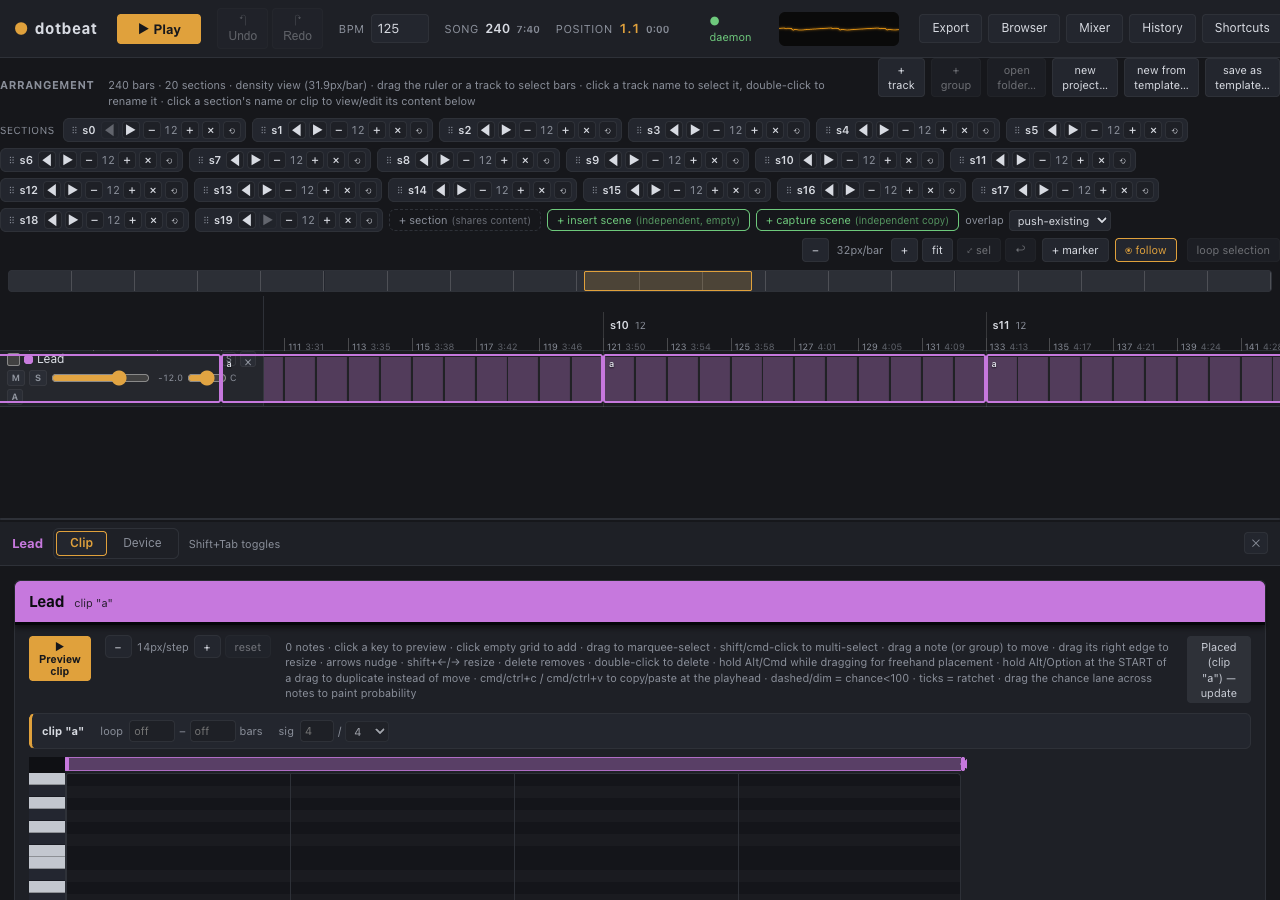
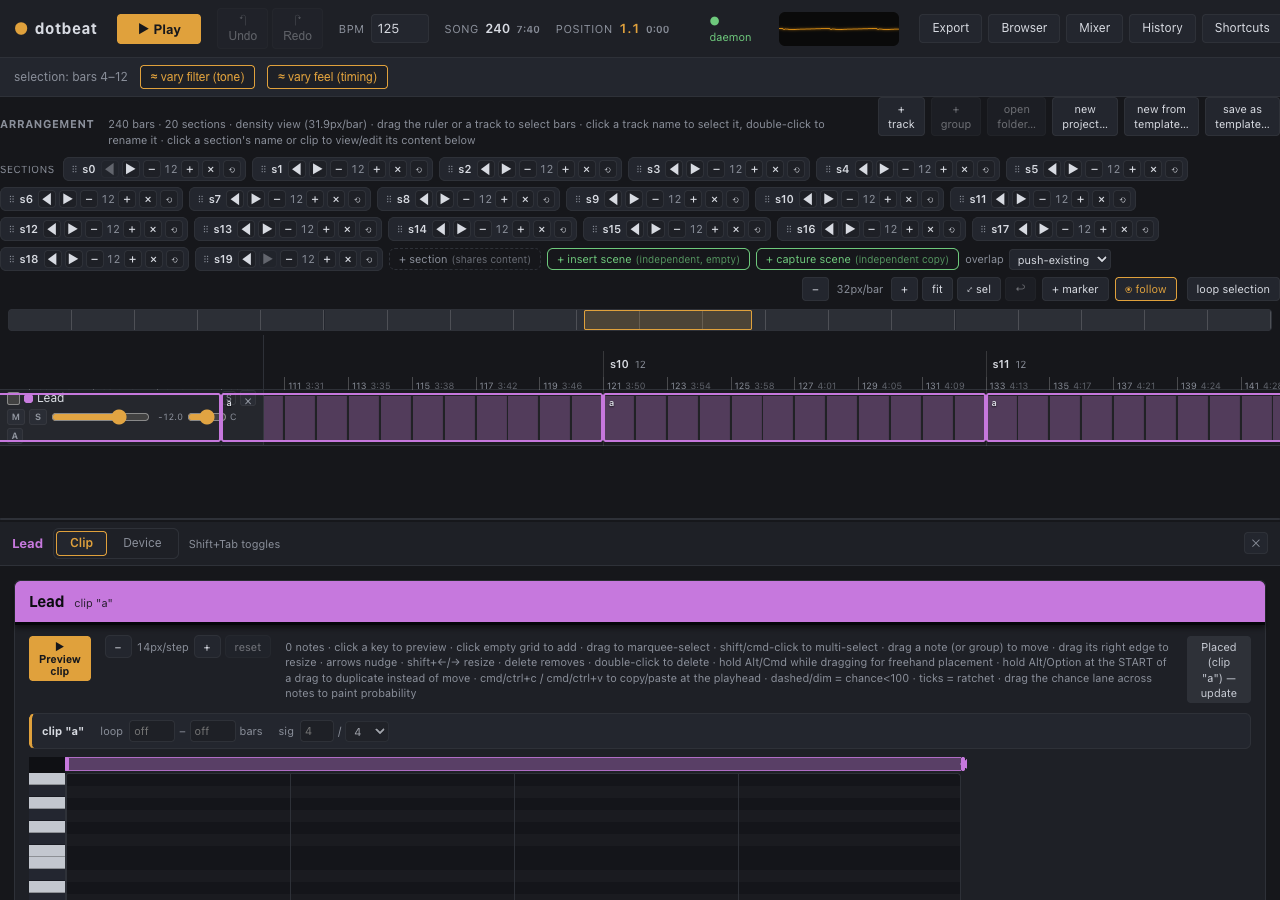
Reserve the contextual bar's space so selecting never moves the rows
Stream A's usability pilot lost a drag to this: VaryAffordance renders
null with no selection, so the first drag's own selection mounted the
bar and pushed every track row down 39px. The second drag, aimed with
pre-shift positions, landed on the wrong track. A layout jump that
silently retargets a gesture is worse than a cosmetic bug.

A fixed-height slot around the bar. Photoshop's Contextual Task Bar —
the pattern this bar explicitly cites — floats over the document rather
than reflowing it, for exactly this reason; reserving the space is the
smaller change and keeps the bar readable against its own background.

The verify script asserts the first row's y is unchanged when a
selection appears, so if the bar's metrics drift past the reserved
height this fails loudly rather than quietly restoring the jump.

Changed region(s): [[0.0, 0.0622, 1.0, 0.4978]]

diff --git a/ui/src/App.tsx b/ui/src/App.tsx
@@ -311,7 +311,18 @@ export function App() {
       {/* The inline vary-and-audition affordance (Phase 15 Stream I): a contextual bar that appears
           whenever there's a selection — Photoshop's Contextual Task Bar pattern. Selection-triggered,
           not tab-bound, so it rides above the whole workspace unchanged by the Phase 18 recomposition. */}
-      <VaryAffordance />
+      {/* Phase 41 Stream D: a fixed-height SLOT around the contextual bar, so the arrangement below
+          never moves when a selection appears or clears. VaryAffordance returns null with no
+          selection, so mounting it shifted everything under it down by its own height — measured
+          39px — between one interaction and the next. Stream A's usability pilot lost a drag to
+          exactly this: the second drag was aimed using pre-shift row positions and landed on the
+          wrong track. A layout jump that silently retargets a gesture is worse than a cosmetic
+          bug, and Photoshop's Contextual Task Bar (the pattern this bar cites) floats over the
+          document rather than reflowing it for the same reason. Reserving the space is the smaller
+          change and keeps the bar readable against its own background. */}
+      <div className="vary-slot">
+        <VaryAffordance />
+      </div>
 
       {/* Phase 22 Stream AH: a new flex ROW wrapping the optional content-browser rail + the
           existing workspace column — additive, the workspace's own internals are unchanged. */}

diff --git a/ui/src/styles.css b/ui/src/styles.css
@@ -284,6 +284,14 @@ body {
 }
 
 /* ---- vary-and-audition affordance (Phase 15 Stream I) ---- */
+/* Phase 41 Stream D — see App.tsx's comment on the slot. The height is pinned to what the bar
+   actually measures (padding 7px top+bottom + a 12px/1.4 line + 1px border = 39px); the verify
+   script asserts the arrangement does not move when a selection appears, so if the bar's own
+   metrics ever drift this fails loudly rather than silently reintroducing the jump. */
+.vary-slot {
+  min-height: 39px;
+  flex: 0 0 auto;
+}
 .vary-bar {
   display: flex;
   align-items: center;
